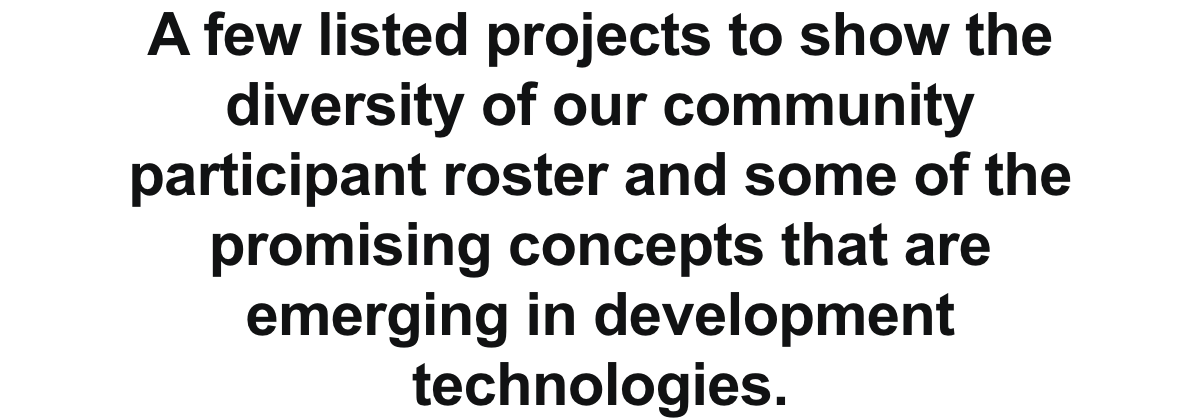
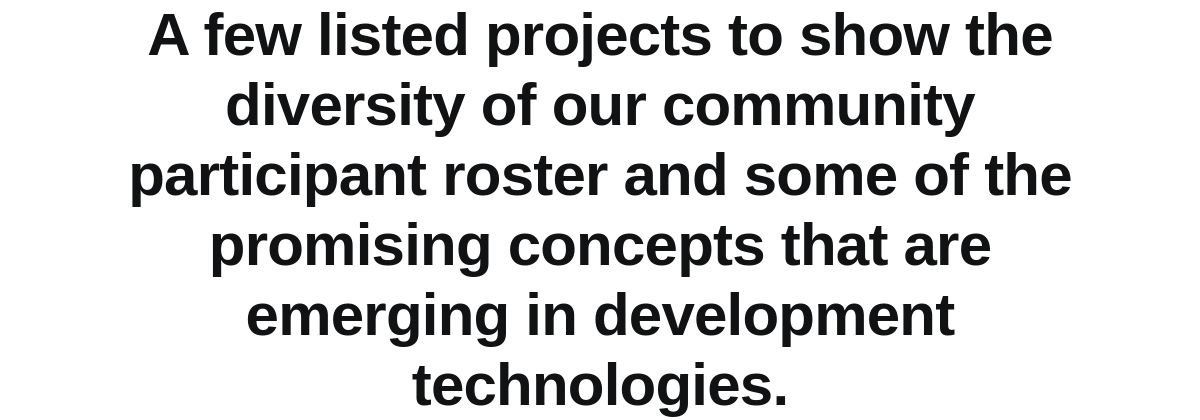
MAR-1577 added global styles for text slices and added new slices

diff --git a/.slicemachine/assets/client/prismicSlices/pageParts/TextSlice/index.stories.js b/.slicemachine/assets/client/prismicSlices/pageParts/TextSlice/index.stories.js
@@ -94,9 +94,66 @@ export const _TitleTextList = () => ({
   },
   data() {
     return {
-      mock: {"variation":"titleTextList","name":"Title + Text + List","slice_type":"text_slice","items":[{"listItem":"morph extensible channels"},{"listItem":"exploit value-added schemas"},{"listItem":"streamline granular relationships"},{"listItem":"grow scalable solutions"}],"primary":{"title":"Software <br /> development","text":"A few listed projects to show the diversity of our community participant roster and some of the promising concepts that are emerging in development technologies.","colorTheme":"white","maxWidth":"1028px"},"id":"_TitleTextList"}
+      mock: {"variation":"titleTextList","name":"Title + Text + List","slice_type":"text_slice","items":[{"listItem":"maximize world-class supply-chains"},{"listItem":"deploy interactive niches"},{"listItem":"target web-enabled initiatives"},{"listItem":"iterate open-source initiatives"},{"listItem":"transition front-end infomediaries"}],"primary":{"title":"Software <br /> development","text":"A few listed projects to show the diversity of our community participant roster and some of the promising concepts that are emerging in development technologies.","colorTheme":"white","maxWidth":"1028px"},"id":"_TitleTextList"}
     }
   },
   template: '<SliceZone :slices="[mock]" :resolver="resolve" />'
 })
 _TitleTextList.storyName = 'Title + Text + List'
+
+export const _TitleH5 = () => ({
+  components: {
+    MyComponent,
+    SliceZone
+  },
+  methods: {
+    resolve() {
+      return MyComponent
+    }
+  },
+  data() {
+    return {
+      mock: {"variation":"titleH5","name":"Title H5","slice_type":"text_slice","items":[],"primary":{"title":"We encourage the best practices in sustainability","colorTheme":"white","maxWidth":"grow viral synergies"},"id":"_TitleH5"}
+    }
+  },
+  template: '<SliceZone :slices="[mock]" :resolver="resolve" />'
+})
+_TitleH5.storyName = 'Title H5'
+
+export const _TitleH5Text = () => ({
+  components: {
+    MyComponent,
+    SliceZone
+  },
+  methods: {
+    resolve() {
+      return MyComponent
+    }
+  },
+  data() {
+    return {
+      mock: {"variation":"titleH5Text","name":"Title H5 + Text","slice_type":"text_slice","items":[],"primary":{"title":"We encourage the best practices in sustainability","text":"Mad Devs takes full responsibility for the projects we have been involved in.  It includes not only the quality of a product but also the responsibility toward  the environment and people.  Therefore, the environmental and social sustainability compliances form  a crucial component of our business strategy. We are committed to comply with legal regulations and official requirements and encourage the best sustainability practices.  We understand sustainability as a path to continuous improvement  of our processes and services for the purposes of environmental protection,  the provision of occupational health, and meeting safety requirements. ","colorTheme":"white","maxWidth":"exploit cross-platform functionalities"},"id":"_TitleH5Text"}
+    }
+  },
+  template: '<SliceZone :slices="[mock]" :resolver="resolve" />'
+})
+_TitleH5Text.storyName = 'Title H5 + Text'
+
+export const _RedTextSimpleText = () => ({
+  components: {
+    MyComponent,
+    SliceZone
+  },
+  methods: {
+    resolve() {
+      return MyComponent
+    }
+  },
+  data() {
+    return {
+      mock: {"variation":"redTextSimpleText","name":"Red Text + Simple Text","slice_type":"text_slice","items":[],"primary":{"title":"Our Primary Areas of Sustainable Enterprise","text":"We build our sustainability efforts around three primary areas: social, economic, and ecological sustainability.","colorTheme":"black","maxWidth":"incentivize robust convergence"},"id":"_RedTextSimpleText"}
+    }
+  },
+  template: '<SliceZone :slices="[mock]" :resolver="resolve" />'
+})
+_RedTextSimpleText.storyName = 'Red Text + Simple Text'

diff --git a/client/prismicSlices/pageParts/TextSlice/variations/TitleH5Text.vue b/client/prismicSlices/pageParts/TextSlice/variations/TitleH5Text.vue
@@ -1,13 +1,17 @@
 <template>
   <div class="text-slice__content">
-    <h2>{{ title }}</h2>
-    <p>{{ text }}</p>
+    <h2 class="text-slice__title-h5">
+      {{ title }}
+    </h2>
+    <p class="text-slice__paragraph">
+      {{ text }}
+    </p>
   </div>
 </template>
 
 <script>
 export default {
-  name: 'TitleText',
+  name: 'TitleH5Text',
   props: {
     title: {
       type: String,
@@ -30,19 +34,22 @@ export default {
 </script>
 
 <style lang="scss" scoped>
-.text-slice__content {
-  display: flex;
-  flex-direction: column;
-  justify-content: center;
-  align-items: center;
-  text-align: center;
-  p {
-    margin-top: 50px;
-    @media screen and (max-width: 1024px) {
-      margin-top: 30px;
-    }
+@import '@/assets/styles/slices/_slices';
+
+.text-slice {
+  &__title-h5 {
+    margin-bottom: 14px;
+  }
+
+  &__paragraph {
+    @include font('Inter', 20px, 400);
+    line-height: 140%;
+    letter-spacing: -0.015em;
+
     @media screen and (max-width: 768px) {
-      margin-top: 20px;
+      font-size: 16px;
+      line-height: 150%;
+      letter-spacing: -0.4px;
     }
   }
 }

diff --git a/client/prismicSlices/pageParts/TextSlice/index.vue b/client/prismicSlices/pageParts/TextSlice/index.vue
@@ -28,6 +28,16 @@
         v-bind="slice.primary"
         :list="slice.items"
       />
+      <TitleH5
+        v-else-if="slice.variation === 'titleH5'"
+        v-bind="slice.primary"
+        :list="slice.items"
+      />
+      <TitleH5Text
+        v-else-if="slice.variation === 'titleH5Text'"
+        v-bind="slice.primary"
+        :list="slice.items"
+      />
     </div>
   </section>
 </template>
@@ -38,6 +48,8 @@ import SimpleText from './variations/SimpleText'
 import TitleText from './variations/TitleText'
 import TitleTextButton from './variations/TitleTextButton'
 import TitleTextList from './variations/TitleTextList'
+import TitleH5 from './variations/TitleH5'
+import TitleH5Text from './variations/TitleH5Text'
 
 export default {
   name: 'TextSlice',
@@ -47,6 +59,8 @@ export default {
     TitleText,
     TitleTextButton,
     TitleTextList,
+    TitleH5,
+    TitleH5Text,
   },
 
   props: {

diff --git a/client/assets/styles/slices/_slices.scss b/client/assets/styles/slices/_slices.scss
@@ -1,0 +1,26 @@
+// TEXT SLICE GLOBAL CLASSES
+.text-slice {
+  &__title-h5 {
+    @include font('Inter', 33.2px, 600);
+    font-weight: 600;
+    line-height: 130%;
+    letter-spacing: -0.04em;
+  }
+
+  @media screen and (max-width: 768px) {
+    &__title-h5 {
+      font-size: 22px;
+      line-height: 30%;
+      letter-spacing: -0.01em;
+    }
+  }
+
+  @media screen and (max-width: 375px) {
+    &__title-h5 {
+      font-size: 17px;
+      line-height: 141%;
+      letter-spacing: -1px;
+    }
+  }
+}
+// END OF TEXT SLICE GLOBAL CLASSES

diff --git a/client/prismicSlices/pageParts/TextSlice/variations/TitleTextButton.vue b/client/prismicSlices/pageParts/TextSlice/variations/TitleTextButton.vue
@@ -54,11 +54,12 @@ export default {
 </script>
 
 <style lang="scss" scoped>
-@import '@/assets/styles/slices/text-slices/_mixins';
-
 .text-slice__content {
-  @include text-slice-content;
-
+  display: flex;
+  flex-direction: column;
+  justify-content: center;
+  align-items: center;
+  text-align: center;
   p {
     margin: 50px 0;
     @media screen and (max-width: 1024px) {
@@ -68,7 +69,6 @@ export default {
       margin: 20px 0;
     }
   }
-
   button {
     padding: 14px 24px;
     line-height: 20px;

diff --git a/client/prismicSlices/pageParts/TextSlice/variations/TitleH5.vue b/client/prismicSlices/pageParts/TextSlice/variations/TitleH5.vue
@@ -1,0 +1,27 @@
+<template>
+  <h5 class="text-slice__content text-slice__title-h5">
+    {{ title }}
+  </h5>
+</template>
+
+<script>
+export default {
+  name: 'TitleH5',
+  props: {
+    title: {
+      type: String,
+      required: true,
+      default: '',
+    },
+
+    colorTheme: {
+      type: String,
+      default: 'white',
+    },
+  },
+}
+</script>
+
+<style lang="scss" scoped>
+@import '@/assets/styles/slices/_slices';
+</style>

diff --git a/client/prismicSlices/pageParts/TextSlice/variations/SimpleText.vue b/client/prismicSlices/pageParts/TextSlice/variations/SimpleText.vue
@@ -26,8 +26,6 @@ export default {
 </script>
 
 <style lang="scss" scoped>
-@import '@/assets/styles/slices/text-slices/_mixins';
-
 .text-slice__content {
   text-align: center;
   &--large {
